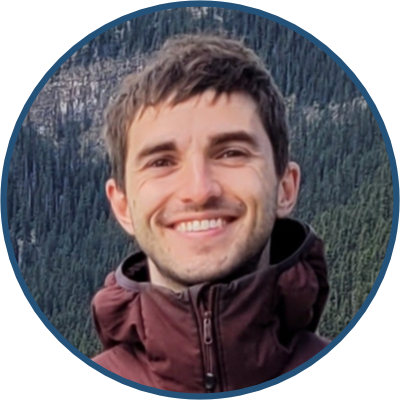
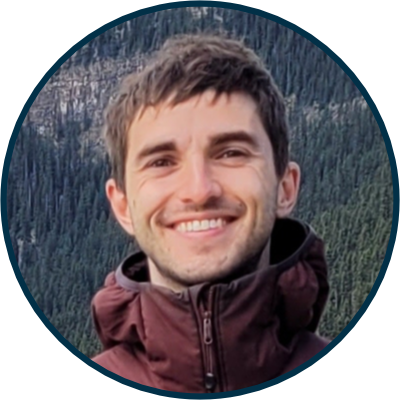
css cleanup
- added several colour variables to css for easier changes
- cleaned up some css styles, applied relevant fixes to html pages
- changed headshot shape

Changed region(s): [[0.12, 0.12, 1.0, 1.0], [0.0, 0.0, 0.81, 0.81]]

diff --git a/assets/style.css b/assets/style.css
@@ -1,17 +1,33 @@
 /* css stylesheet for spencer arbuckle's personal website */
 
+:root {
+	--color-bg: #F1F1F1;
+	--color-btn-bg: #023047;
+	--color-btn-text: #b9bdc7;
+	--color-btn-text-hover: #FFD700;
+	--color-btn-text-current: #F5F5F5;
+	--color-text-masthead: #023047;
+	--color-text-h2: #245178;
+	--color-text-p: #000000;
+	--color-text-strong: #000000;
+	--color-text-link: #2F70C3;
+	--color-text-link-hover: #2F70C3;
+	--color-text-link-active: #FFA500;
+	--color-text-link-underline: #000000;
+	--transition-time: 0.1s;
+}
 
 body {
 	font-family: Helvetica, Arial, sans-serif;
 	font-size: 100%;
 	font-weight: 300;
-	color: black;
+	color: var(--color-text-p);
 	text-rendering: optimizeLegibility;
+	text-align: left;
 	line-height: 1.4;
-	background-color: #F1F1F1;
+	background-color: var(--color-bg);
 	margin: 0 auto;
 	padding: 0;
-	text-align: left; /* this centers the container in IE 5* browsers. The text is then set to the left aligned default in the #container selector */
 }
 .onecol #container { 
 	width: 100%; 
@@ -71,20 +87,23 @@ body {
     left: 17.5%;
     right: 0px;
     padding: 2px 5px;
-    color: #2979E2;
-    background: #F2F2F2;
+    color: var(--color-text-link);
+    background: var(--color-bg);
     text-decoration: none;
     text-align: left;
     transition: opacity 300ms;
 }
 .onecol #imgBar:hover .imgLink {
-    opacity: 0.9;
+    opacity: 0.95;
 }
 .onecol #imgBar .imgLink:hover { /*mouse over link*/
-	color: black; 
+	color: var(--color-text-link-hover); 
 	text-decoration: underline;
-	text-decoration-color: black;
+	text-decoration-color: var(--color-text-link-underline);
 	text-decoration-style: solid;
+}
+.onecol #imgBar .imgLink:active { /*mouse click*/
+	color: var(--color-text-link-active); 
 }
 
 
@@ -113,16 +132,27 @@ img {
 	display: flex;
 	float: right;
 	height: auto;
-	padding: 0px 5px 5px 15px;
+	padding-bottom: 15px;
 	width: auto\9; /* ie8 */
 }
 
 
+
 /*----------*/
-/*  HEADERS */
+/*  TEXT    */
 /*----------*/
+p.reg {
+	font-size: 1em;
+	color: var(--color-text-p);
+	text-align: left;	
+	text-decoration: none;
+}
+strong{
+	color: var(--color-text-strong);
+}
+
 h.masthead {
-	color: #245178;
+	color: 	var(--color-text-masthead);
 	text-align: center;
 	font-size: 2em;
 	font-weight: lighter;
@@ -131,69 +161,43 @@ h.masthead {
 	vertical-align: middle;
 	padding: 0px;
 	margin: 0px;
-	/*text-decoration: underline 0.1em rgba(255,215,0, 0);
-  transition: all 0.15s ease 0s;*/
+	text-decoration: underline 0.1em rgba(255,215,0, 0);
+  transition: all var(--transition-time) ease 0s;
 }
-/*h.masthead:hover{
-	color: #245178;
+h.masthead:hover{
+	color: var(--color-text-masthead);
 	text-decoration: underline;
-	text-decoration-color: gold;
+	text-decoration-color: var(--color-btn-text-hover);
 	text-decoration-style: solid;
 	text-decoration: underline 0.1em rgba(255,215,0, 1);
-}*/
-h.masthead:after {
+}
+/*h.masthead:after {
   content: "";
   display: block;
   width: 100%;
   height: 2px;
   bottom: 0;
   left: 0;
-  background-color: black;/*#245178;*/
+  background-color: var(--color-text-link-underline);
   transform: scaleX(0);
   transition: transform 0.2s ease;
 }
 h.masthead:hover:after {
   transform: scaleX(1);
-}
+}*/
 
-h2 {
+h1 {
 	font-size: 1.5em;
 	font-weight: normal;
 	text-align: left;	
 	line-height: 1.4;
-	color: #245178; /*#007ba3;*/
+	color: var(--color-text-h2);
 	margin: 0px;
 }
 
 
 /*----------*/
-/*  CONTENT */
-/*----------*/
-p.reg {
-	font-size: 1em;
-	color: #000000;/*#333;*/
-	text-align: left;	
-	text-decoration: none;
-}
-p.tiny {
-	font-size: 0.5em;
-	color: slategray;
-	text-align: center;	
-	text-decoration: none;
-}
-p.cite {
-	font-size: 1em;
-	color: #000000;/*#333;*/
-	text-align: left;	
-	text-decoration: none;
-	margin-bottom:12px;
-	/*text-indent: -35px;
-	padding-left: 35px;*/
-}
-
-
-/*----------*/
-/*  MENU    */
+/*  LIST    */
 /*----------*/
 ul.button {
 	list-style-type: none;
@@ -201,7 +205,7 @@ ul.button {
 	margin: 0;
 	padding: 0;
 	overflow: hidden;
-	background-color: #245178;
+	background-color: var(--color-btn-bg);
 }
 li.button {
 	float: left;
@@ -209,16 +213,16 @@ li.button {
 }
 li a.button {
 	display: block;
-	color: #b9bdc7;
+	color: var(--color-btn-text);
 	text-align: center;
 	text-decoration: none;
-	transition: all 0.15s ease 0s;
+	transition: all var(--transition-time) ease 0s;
 }
 li a.button:hover {
-	color: gold;
+	color: var(--color-btn-text-hover);
 }
 li a.buttonCurrent {
-	color: whitesmoke;
+	color: var(--color-btn-text-current);
 	display: block;
 	text-align: center;
 	text-decoration: none;
@@ -228,52 +232,38 @@ li a.buttonCurrent {
 /*----------*/
 /*  LINKS   */
 /*----------*/
-a.masthead:link { /*unvisited link*/
-	color: black;
-	text-decoration: none;
-}
-a.masthead:visited { /*visited link*/
-	color: black; /*don't change colour*/
-	text-decoration: none;
-}
-a.masthead:hover { /*mouse over link*/
-	color: gold;
-	text-decoration: none;
-	transition: all 0.15s ease 0s;
-}
-
 a.cite:link { /*unvisited link*/
-	color: #2F70C3;
+	color: var(--color-text-link);
 	text-decoration: none;
 }
 a.cite:visited { /*visited link*/
-	color: #2F70C3;/*don't change colour*/
+	color: var(--color-text-link);
 }
 a.cite:hover { /*mouse over link*/
-	color: #2F70C3; 
+	color: var(--color-text-link-hover); 
 	text-decoration: underline;
-	text-decoration-color: black;
+	text-decoration-color: var(--color-text-link-underline);
 	text-decoration-style: solid;
 	background-color: rgb(0,0,0,0.06)
 }
 a.cite:active { /*on mouse click*/
-	color: orange; 
+	color: var(--color-text-link-active); 
 	text-decoration: underline;
-	text-decoration-color: black;
+	text-decoration-color: var(--color-text-link-underline);
 	text-decoration-style: solid;
 	background-color: rgb(0,0,0,0.06)
 }
 
 /*site icons*/
 a.icon:link {
-	color: #b9bdc7;
-	transition: all 0.15s ease 0s;
+	color: var(--color-btn-text);
+	transition: all var(--transition-time) ease 0s;
 }
 a.icon:visited {
-	color: #b9bdc7;
+	color: var(--color-btn-text);
 }
 a.icon:hover {
-	color: gold;
+	color: var(--color-btn-text-hover);
 }
 
 

diff --git a/about.html b/about.html
@@ -44,7 +44,7 @@
 			<!--HEADER-->
 			<div id="header">
 				<img class="sitelogo" src="assets/imgs/logos/logo.png">
-				<a class="masthead" href="index.html" target="_self"><h class="masthead">Spencer Arbuckle</h></a>
+				<a href="index.html" target="_self"><h class="masthead">Spencer Arbuckle</h></a>
 			</div>
 			
 			<!--MENU-->
@@ -80,7 +80,7 @@
 		<div id="containerFade">
 			<div id="contentMain">
 				<p class="reg">
-					<h2 id="about">About me</h2>
+					<h1 id="about">About me</h1>
 					
 					<p>My interest in touch and motor control&#8212;a central focus of my research&#8212;stems from my enthusiasm for <a class="cite" href="https://www.8a.nu/user/spencer-arbuckle/sportclimbing">rock climbing</a> and outdoor recreation. More broadly, I'm passionate about all things science and data, including infrastructures that enable (and grow) science and research, the use of science and data in policy making, and the advacement of data literacy.</p>
 
@@ -88,19 +88,19 @@
 
 					<img class="lines" src="assets/imgs/lines/scribble3.svg">
 
-					<h2 id="education">Education</h2>
+					<h1 id="education">Education</h1>
 				
 					<p>I completed a BSc in Psychology at <a class="cite" href="https://www.queensu.ca/">Queen's University</a> where I worked with <a class="cite" href="https://scholar.google.com/citations?hl=en&user=gNyP9lQAAAAJ&view_op=list_works&sortby=pubdate"/>Dr. Ronald Holden</a> and completed a thesis with <a class="cite" href="https://www.conchlab.ca/">Dr. Ingrid Johnsrude</a>. I then worked with Dr. Ingrid Johnsrude and <a class="cite" href="https://kohlermemorylab.org/">Dr. Stefan K<span>&#246;</span>hler</a> as a research assistant. I completed a PhD in Neuroscience with <a class="cite" href="http://www.diedrichsenlab.org/">Dr. J<span>&#246;</span>rn Diedrichsen</a> and <a class="cite" href="https://www.pruszynskilab.com/">Dr. Andrew Pruszynski</a> at <a class="cite" href="https://www.uwo.ca/bmi/">Western University</a>. I was funded by <a class="cite" href="https://www.nserc-crsng.gc.ca/index_eng.asp">NSERC</a> and some of my projects have received funding from <a class="cite" href="https://brainscan.uwo.ca/">BrainsCAN</a>.</p>
 
 					<img class="lines" src="assets/imgs/lines/scribble4.svg">
 
-					<h2 id="teaching">Teaching</h2>
+					<h1 id="teaching">Teaching</h1>
 				
 					<p>I've helped design and teach courses in data science, neuroimaging, statistics, and psychology (through this, I too get to learn about cool topics!). I am currently collaborating with a team at the Centre for Neuroscience Studies (Queen's University) to create a <a class="cite" href="http://neuroscience.queensu.ca/academic/microcredentials">series of short courses on neurotechnology</a>. These courses are designed to be accessible to learners of all backgrounds and will highlight how neurotechnologies can help tackle real-world problems.</p>
 
 					<img class="lines" src="assets/imgs/lines/scribble1.svg">
 
-					<h2 id="contact">Contact & Links</h2>
+					<h1 id="contact">Contact & Links</h1>
 
 					<p><b>links</b>: <a class="cite" href="https://twitter.com/saarbuckle">Twitter</a> | 
 					<a class="cite" href="https://github.com/saarbuckle">GitHub</a> | 

diff --git a/index.html b/index.html
@@ -45,7 +45,7 @@
 			<!--HEADER-->
 			<div id="header">
 				<img class="sitelogo" src="assets/imgs/logos/logo.png">
-				<a class="masthead" href="index.html" target="_self"><h class="masthead">Spencer Arbuckle</h></a>
+				<a href="index.html" target="_self"><h class="masthead">Spencer Arbuckle</h></a>
 			</div>
 			
 			<!--MENU-->
@@ -82,7 +82,7 @@
 		<div id="containerFade">
 			<div id="contentMain">
 				<p class="reg">
-					<p> <img class="headshot" src="assets/imgs/photos/headshot_2021_circle.png" alt="Spencer Arbuckle" title="spencer">
+					<p> <img class="headshot" src="assets/imgs/photos/headshot_2021_oval.png" alt="Spencer Arbuckle" title="spencer">
 					I am a <a class="cite" href="about.html">scientist</a>.</p> <p>In my <a class="cite" href="research.html">research</a>, I use computational models combined with measures of brain, muscle, and behavioural data to study how we sense and interact with our world through movement. As part of this, I've helped develop novel <a class="cite" href="research.html#stats">statistical methods</a> to analyze brain data.</p>
 
 					<p>I have a deep interest in how science and data are used in policy making.</p>

diff --git a/publications.html b/publications.html
@@ -45,7 +45,7 @@
 			<!--HEADER-->
 			<div id="header">
 				<img class="sitelogo" src="assets/imgs/logos/logo.png">
-				<a class="masthead" href="index.html" target="_self"><h class="masthead">Spencer Arbuckle</h></a>
+				<a href="index.html" target="_self"><h class="masthead">Spencer Arbuckle</h></a>
 			</div>
 			
 			<!--MENU-->
@@ -79,7 +79,7 @@
 		<div id="containerFade">
 			<div id="contentMain">
 				<p class="reg">
-					<h2>Papers</h2>
+					<h1>Papers</h1>
 					<p>
 						<strong>Mapping the integration of sensory information across fingers in human sensorimotor cortex</strong>.
 						 <u>Arbuckle SA</u>, Pruszynski JA, Diedrichsen J (<em>accepted, in press</em>).
@@ -132,7 +132,7 @@
 
 					<img class="lines" src="assets/imgs/lines/scribble5.svg">
 
-					<h2>Thesis</h2>
+					<h1>Thesis</h1>
 					<p>
 						<strong>Brain Representations of Dexterous Hand Control</strong>.
 						<em>Arbuckle SA</em> (2021). <a class="cite" href="https://ir.lib.uwo.ca/etd/7997/"><em>Western University PhD thesis</em></a>.

diff --git a/research.html b/research.html
@@ -45,7 +45,7 @@
 			<!--HEADER-->
 			<div id="header">
 				<img class="sitelogo" src="assets/imgs/logos/logo.png">
-				<a class="masthead" href="index.html" target="_self"><h class="masthead">Spencer Arbuckle</h></a>
+				<a href="index.html" target="_self"><h class="masthead">Spencer Arbuckle</h></a>
 			</div>
 			
 			<!--MENU-->
